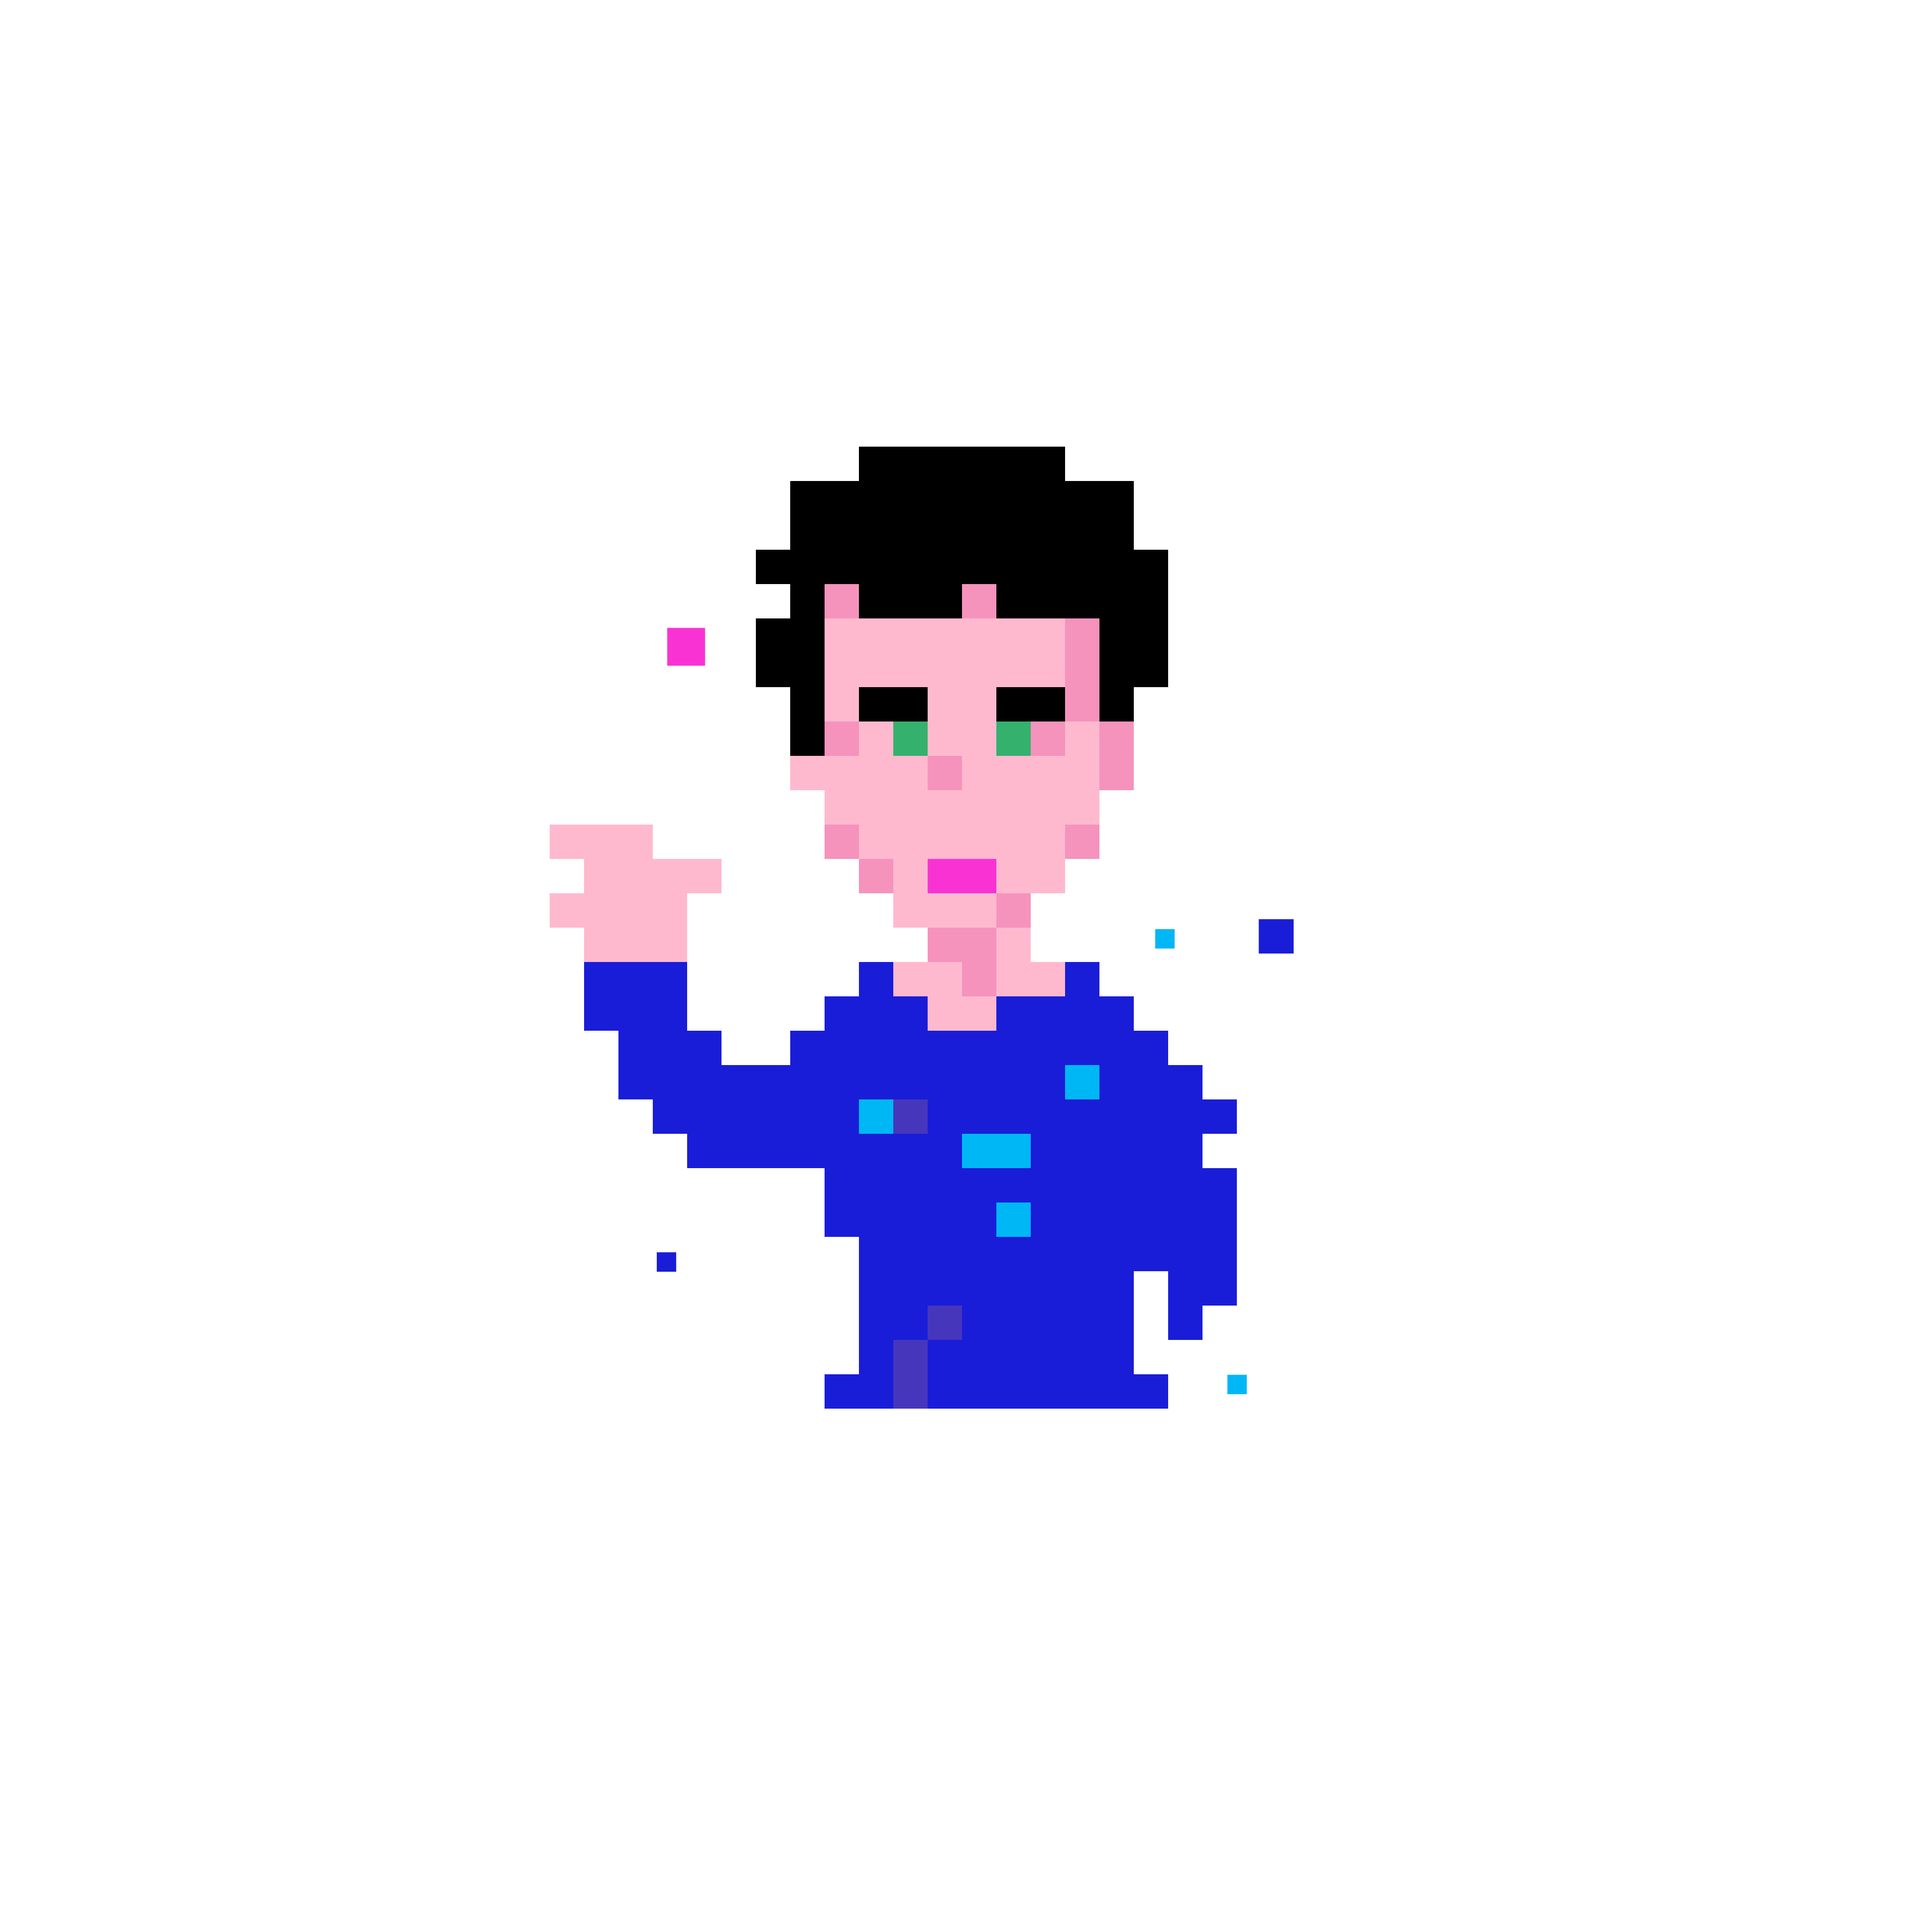
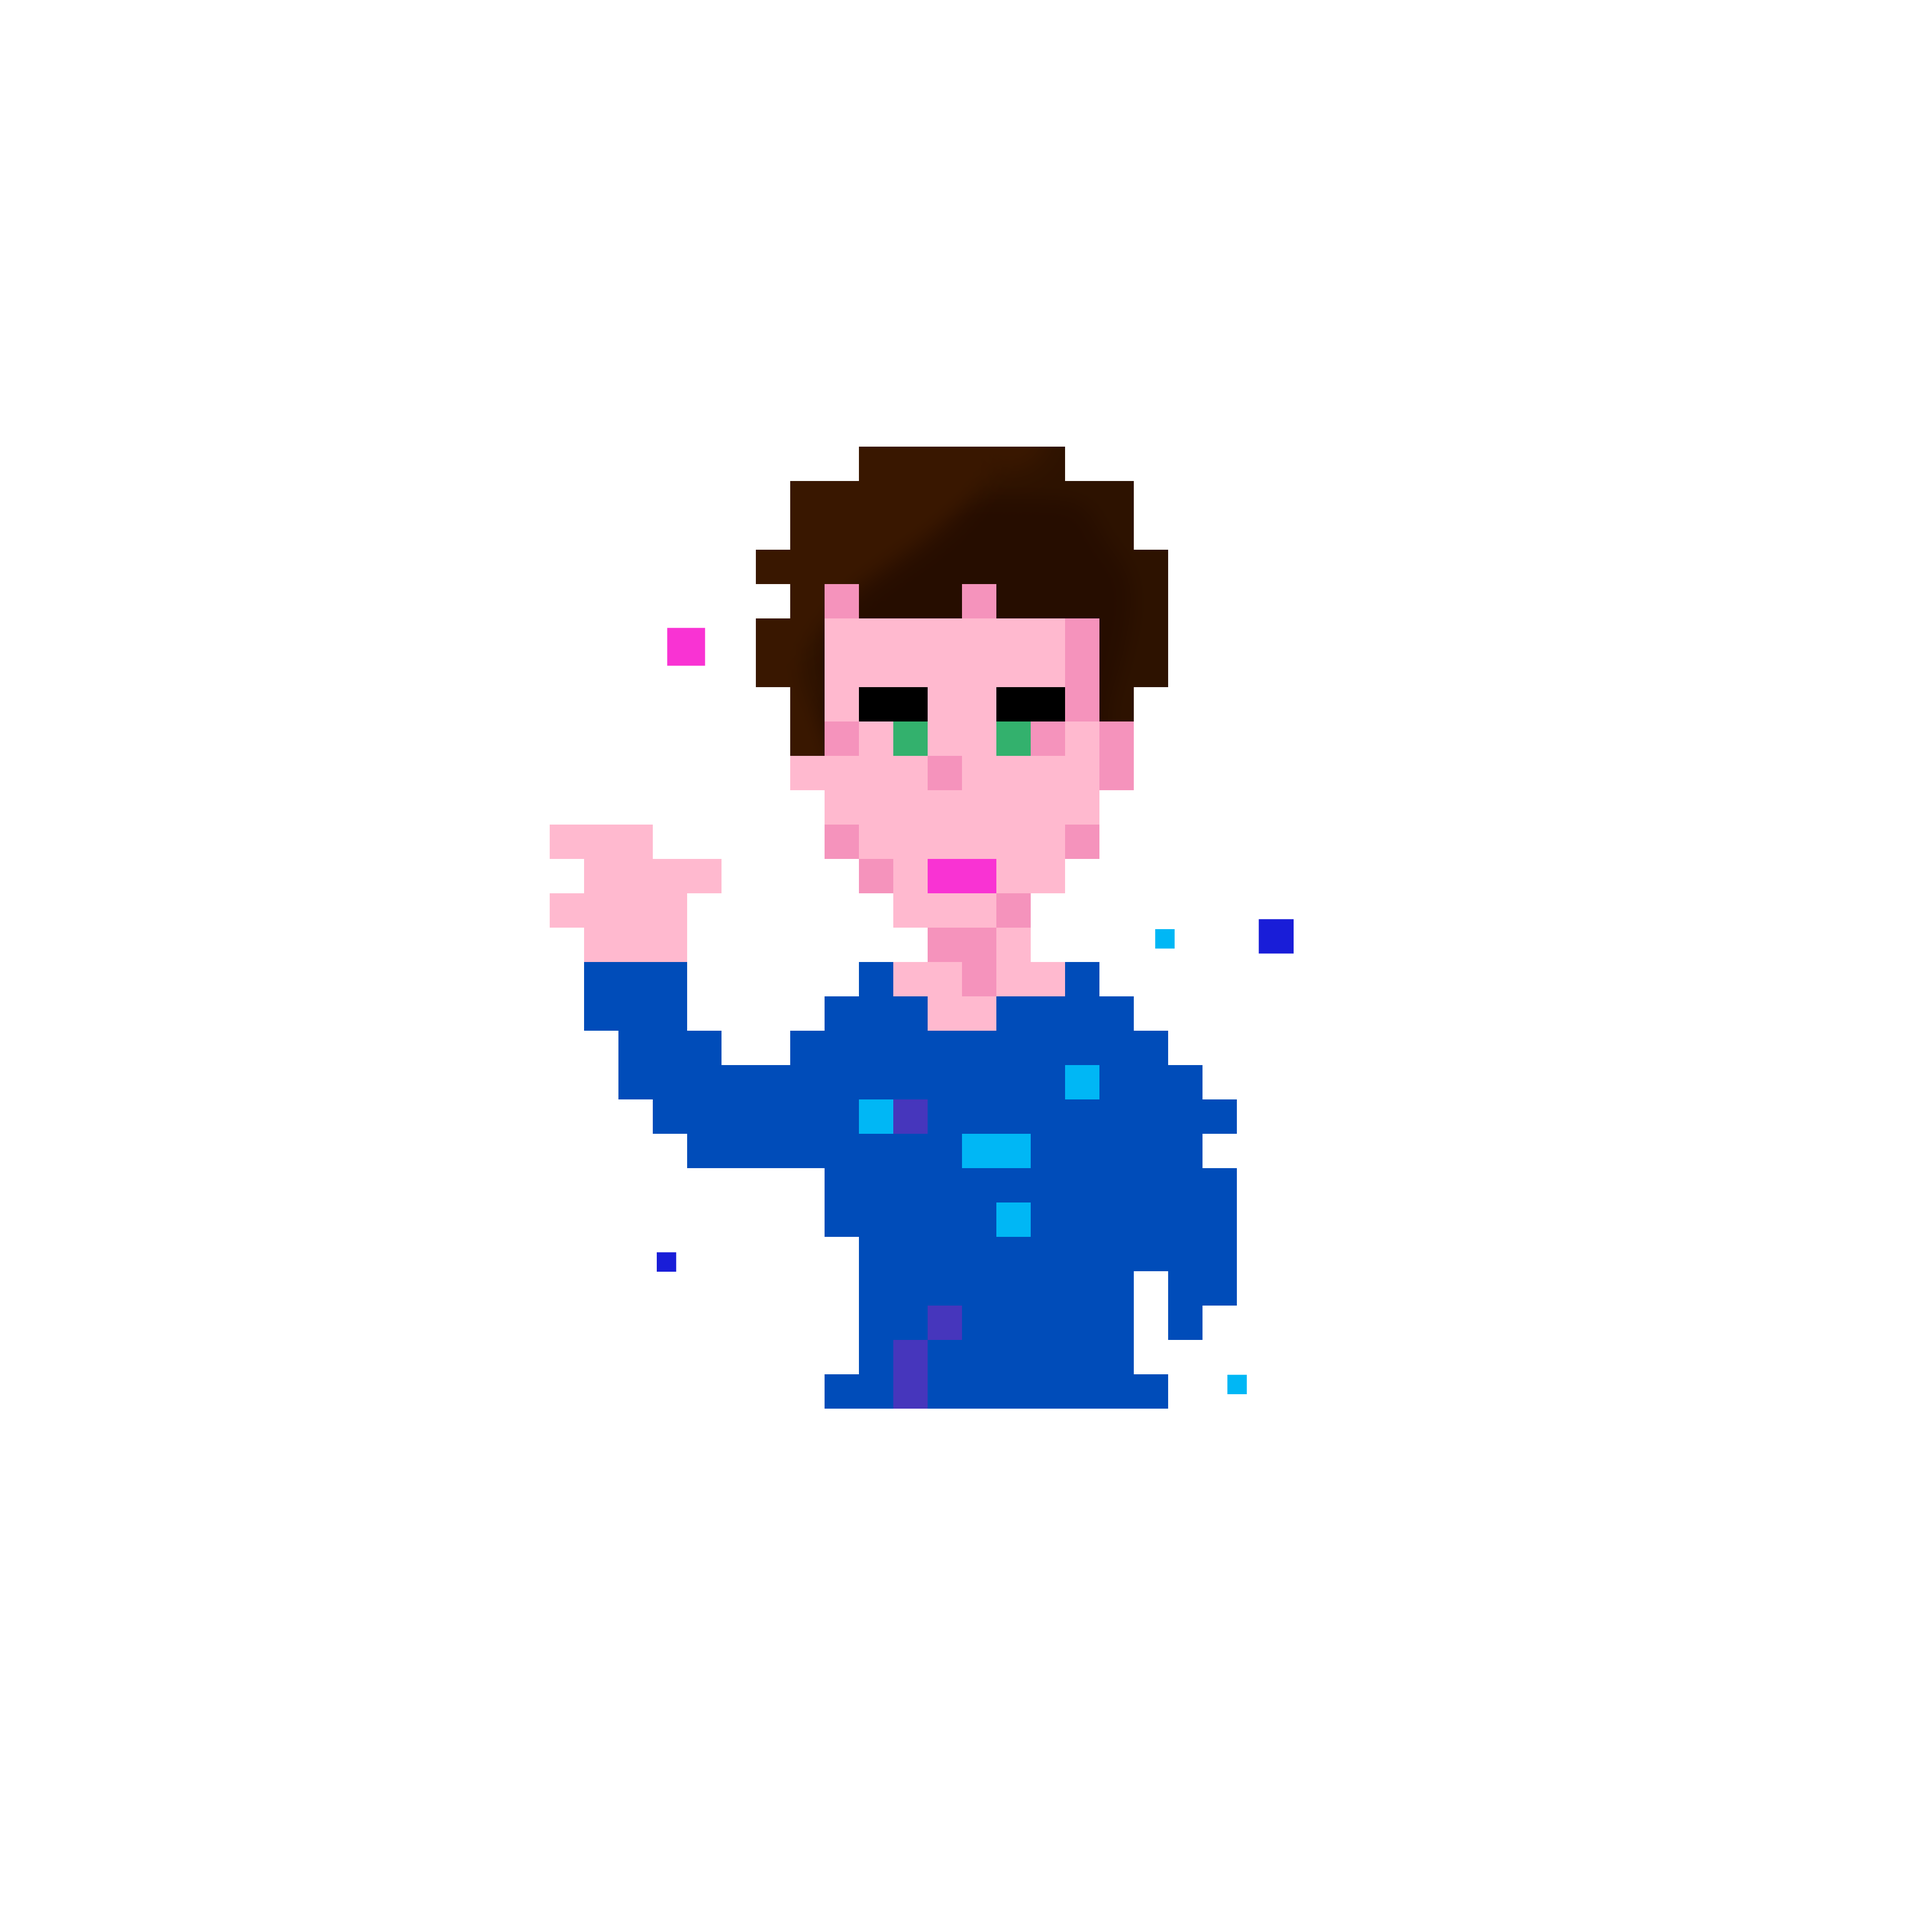
Updates

Changed region(s): [[0.2795, 0.4969, 0.6522, 0.7453], [0.3727, 0.2174, 0.6211, 0.4037]]

diff --git a/static/css/main.566e1f6a.css b/static/css/main.566e1f6a.css
@@ -1,0 +1,2 @@
+@import url(https://fonts.googleapis.com/css2?family=Inter:wght@300;400;500;600;700&display=swap);body{-webkit-font-smoothing:antialiased;-moz-osx-font-smoothing:grayscale;font-family:-apple-system,BlinkMacSystemFont,Segoe UI,Roboto,Oxygen,Ubuntu,Cantarell,Fira Sans,Droid Sans,Helvetica Neue,sans-serif}code{font-family:source-code-pro,Menlo,Monaco,Consolas,Courier New,monospace}:root{--primary-color:#ff3700;--secondary-color:#ffde00;--accent-color:#1cb0f6;--background:#f8f9ff;--text-color:#2d3748}body{color:#2d3748;color:var(--text-color);font-family:Inter,sans-serif;line-height:1.6;margin:0;overflow-x:hidden}.main-nav,body{background:#f8f9ff;background:var(--background)}.main-nav{box-shadow:0 2px 10px #0000001a;justify-content:center;padding:1rem 0;position:fixed;top:0;z-index:1000}.main-nav,.nav-content{display:flex;width:100%}.nav-content{justify-content:left;max-width:1200px;padding:0 20px}.main-nav ul{display:flex;gap:2rem;justify-content:center;list-style:none;margin:0;padding:0}@media (max-width:768px){.main-nav{padding:.5rem 0}.main-nav .nav-content{justify-content:center}.main-nav ul{gap:1rem}}.main-nav a{align-items:center;border-radius:8px;color:#2d3748;color:var(--text-color);display:flex;font-weight:500;gap:.5rem;padding:.5rem 1rem;transition:all .2s ease}.main-nav a:hover{background:#58cc021a;transform:translateY(-2px)}.progress-container{background:#ffffff1a;height:4px;position:fixed;top:0;width:100%;z-index:1000}.progress-bar{background:#ff3700;background:var(--primary-color);height:100%;transition:width .4s cubic-bezier(.4,0,.2,1)}header{background:linear-gradient(135deg,#d3028d,#ff8c00);clip-path:polygon(0 0,100% 0,100% 90%,0 100%);color:#fff;margin-bottom:-60px;margin-top:10px;padding:120px 20px 160px;text-align:center}.header-wrapper{margin:0 auto;max-width:800px}h1{font-size:3.5rem;font-weight:700;letter-spacing:-.05em;margin-bottom:1rem}.subtitle{font-size:1.25rem;font-weight:400;margin-bottom:2rem;opacity:.9}.container{margin:0 auto;max-width:1200px;padding:0 20px}.section-title{display:inline-block;font-size:2.5rem;margin-bottom:3rem;margin-left:50%;position:relative;text-align:center;transform:translateX(-50%)}.section-title:after{background:#ff3700;background:var(--primary-color);bottom:-10px;content:"";height:3px;left:50%;position:absolute;transform:translateX(-50%);width:60px}.project-grid{grid-gap:2rem;display:grid;gap:2rem;grid-template-columns:repeat(auto-fit,minmax(280px,1fr));padding:2rem 0}.project-card{background:#fff;border:1px solid #0000000d;border-radius:16px;box-shadow:0 10px 30px #00000014;padding:2.5rem;text-align:center;transition:all .3s cubic-bezier(.4,0,.2,1)}.project-card:hover{box-shadow:0 15px 40px #0000001f;transform:translateY(-8px)}.project-icon{color:#ff3700;color:var(--primary-color);font-size:2.5rem;margin-bottom:1.5rem}.cta-button{align-items:center;background:#ff3700;background:var(--primary-color);border:none;border-radius:8px;color:#fff;cursor:pointer;display:inline-flex;font-weight:600;gap:8px;padding:1rem 2rem;transition:all .2s ease}.cta-button:hover{background:#f30;transform:translateY(-2px)}.skill-bubbles{display:flex;flex-wrap:wrap;gap:1rem;justify-content:center;margin:0 auto;max-width:800px}.bubble{background:#fff;border-radius:50px;box-shadow:0 5px 15px #0000000f;font-weight:500;padding:1rem 1.5rem;transition:transform .2s ease}.bubble:hover{transform:scale(1.05)}.contact-wrapper{margin:0 auto;max-width:600px;padding:4rem 0}form{display:flex;flex-direction:column;gap:1.5rem}input,textarea{border:2px solid #e2e8f0;border-radius:8px;font-family:inherit;padding:1rem;transition:border-color .3s ease}input:focus,textarea:focus{border-color:#ff3700;border-color:var(--primary-color);box-shadow:0 0 0 3px #58cc021a;outline:none}@media (max-width:768px){h1{font-size:2.5rem}.section-title{font-size:2rem}.project-grid{grid-template-columns:1fr}}html{scroll-behavior:smooth;scroll-padding-top:70px}.bio-adventure{background:#e0f8e0;border-radius:16px;box-shadow:inset 0 0 20px #0064001a;margin:2rem auto;min-height:500px;overflow:hidden;position:relative}.game-map{background:linear-gradient(45deg,#0000 95%,silver 0),linear-gradient(-45deg,#0000 95%,silver 0),#f0f8ff;background-size:20px 20px;height:500px;position:relative}.map-location{cursor:pointer;position:absolute;text-align:center;transition:all .3s ease}.map-icon{align-items:center;background:#fff;border-radius:50%;box-shadow:0 4px 12px #0003;display:flex;font-size:1.5rem;height:50px;justify-content:center;margin:0 auto;width:50px}.map-location:hover{transform:scale(1.1) rotate(5deg)}.location-title{color:#ff3700;color:var(--primary-color);font-weight:600;margin-top:.5rem;white-space:nowrap}.map-path{background:#58cc024d;height:4px;left:10%;position:absolute;top:50%;transform:translateY(-50%);width:80%}.path-line{animation:path-scroll 20s linear infinite;background:repeating-linear-gradient(90deg,#0000,#0000 15px,#ff3700 0,#ff3700 30px);background:repeating-linear-gradient(90deg,#0000,#0000 15px,var(--primary-color) 15px,var(--primary-color) 30px);height:100%;position:absolute;width:100%}@keyframes path-scroll{0%{background-position:0 0}to{background-position:600px 0}}.game-dialog{background:#000c;border:3px solid #ff3700;border:3px solid var(--primary-color);border-radius:16px;color:#fff;left:50%;max-width:500px;padding:2rem;position:fixed;top:50%;transform:translate(-50%,-50%);width:80%;z-index:2000}.dialog-box{background:#1a2f38;border-radius:8px;padding:2rem;position:relative}.pulse{animation:pulse 2s infinite}@keyframes pulse{0%{transform:scale(1)}50%{transform:scale(1.05)}to{transform:scale(1)}}.profile-image{display:block;height:300px;margin:-70px auto -50px;object-fit:cover;opacity:100%;width:300px}a{color:inherit;text-decoration:none}
+/*# sourceMappingURL=main.566e1f6a.css.map*/

diff --git a/index.html b/index.html
@@ -1,1 +1,1 @@
-<!doctype html><html lang="en"><head><meta charset="utf-8"/><link rel="icon" href="/iconimp.ico"/><meta name="viewport" content="width=device-width,initial-scale=1"/><meta name="theme-color" content="#000000"/><meta name="description" content="Web site created using create-react-app"/><link rel="apple-touch-icon" href="/logo192.png"/><link rel="manifest" href="/manifest.json"/><title>Tejusmadan</title><script defer="defer" src="/static/js/main.b0e5ada3.js"></script><link href="/static/css/main.dddc9d2b.css" rel="stylesheet"></head><body><noscript>You need to enable JavaScript to run this app.</noscript><div id="root"></div></body></html>
+<!doctype html><html lang="en"><head><meta charset="utf-8"/><link rel="icon" href="/iconimp.ico"/><meta name="viewport" content="width=device-width,initial-scale=1"/><meta name="theme-color" content="#000000"/><meta name="description" content="Web site created using create-react-app"/><link rel="apple-touch-icon" href="/logo192.png"/><link rel="manifest" href="/manifest.json"/><title>Tejusmadan</title><script defer="defer" src="/static/js/main.b0e5ada3.js"></script><link href="/static/css/main.566e1f6a.css" rel="stylesheet"></head><body><noscript>You need to enable JavaScript to run this app.</noscript><div id="root"></div></body></html>
